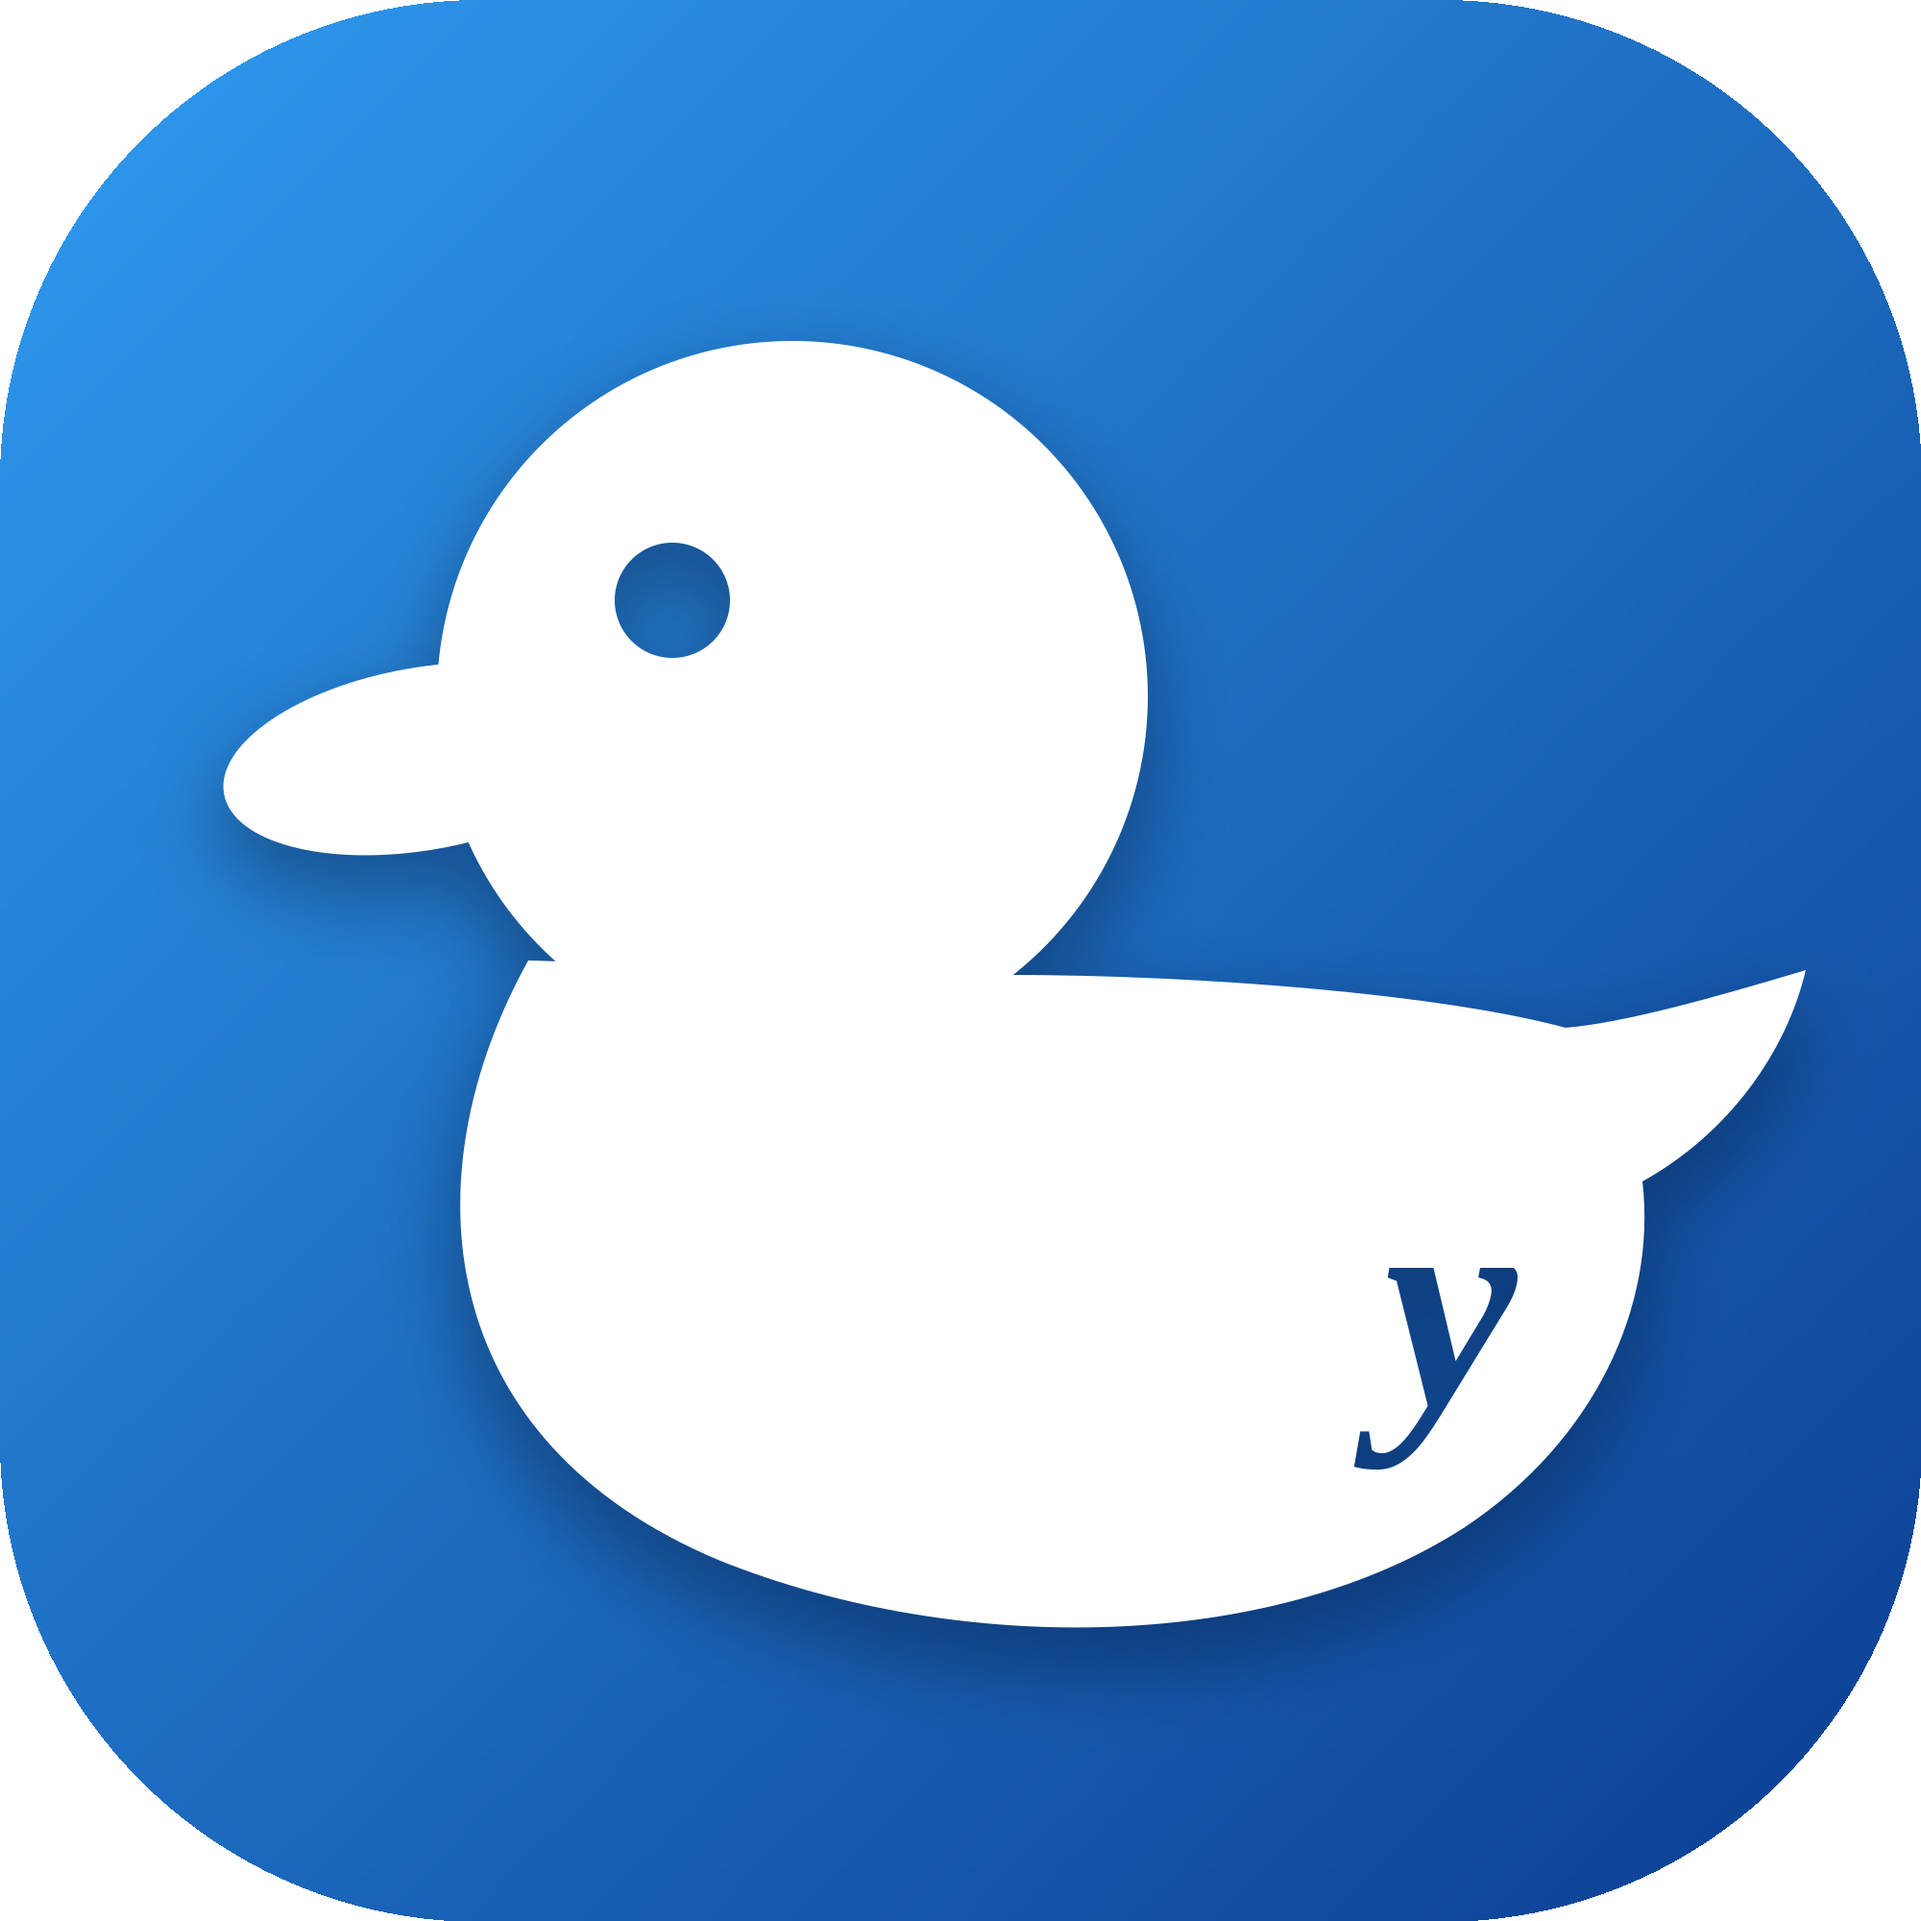
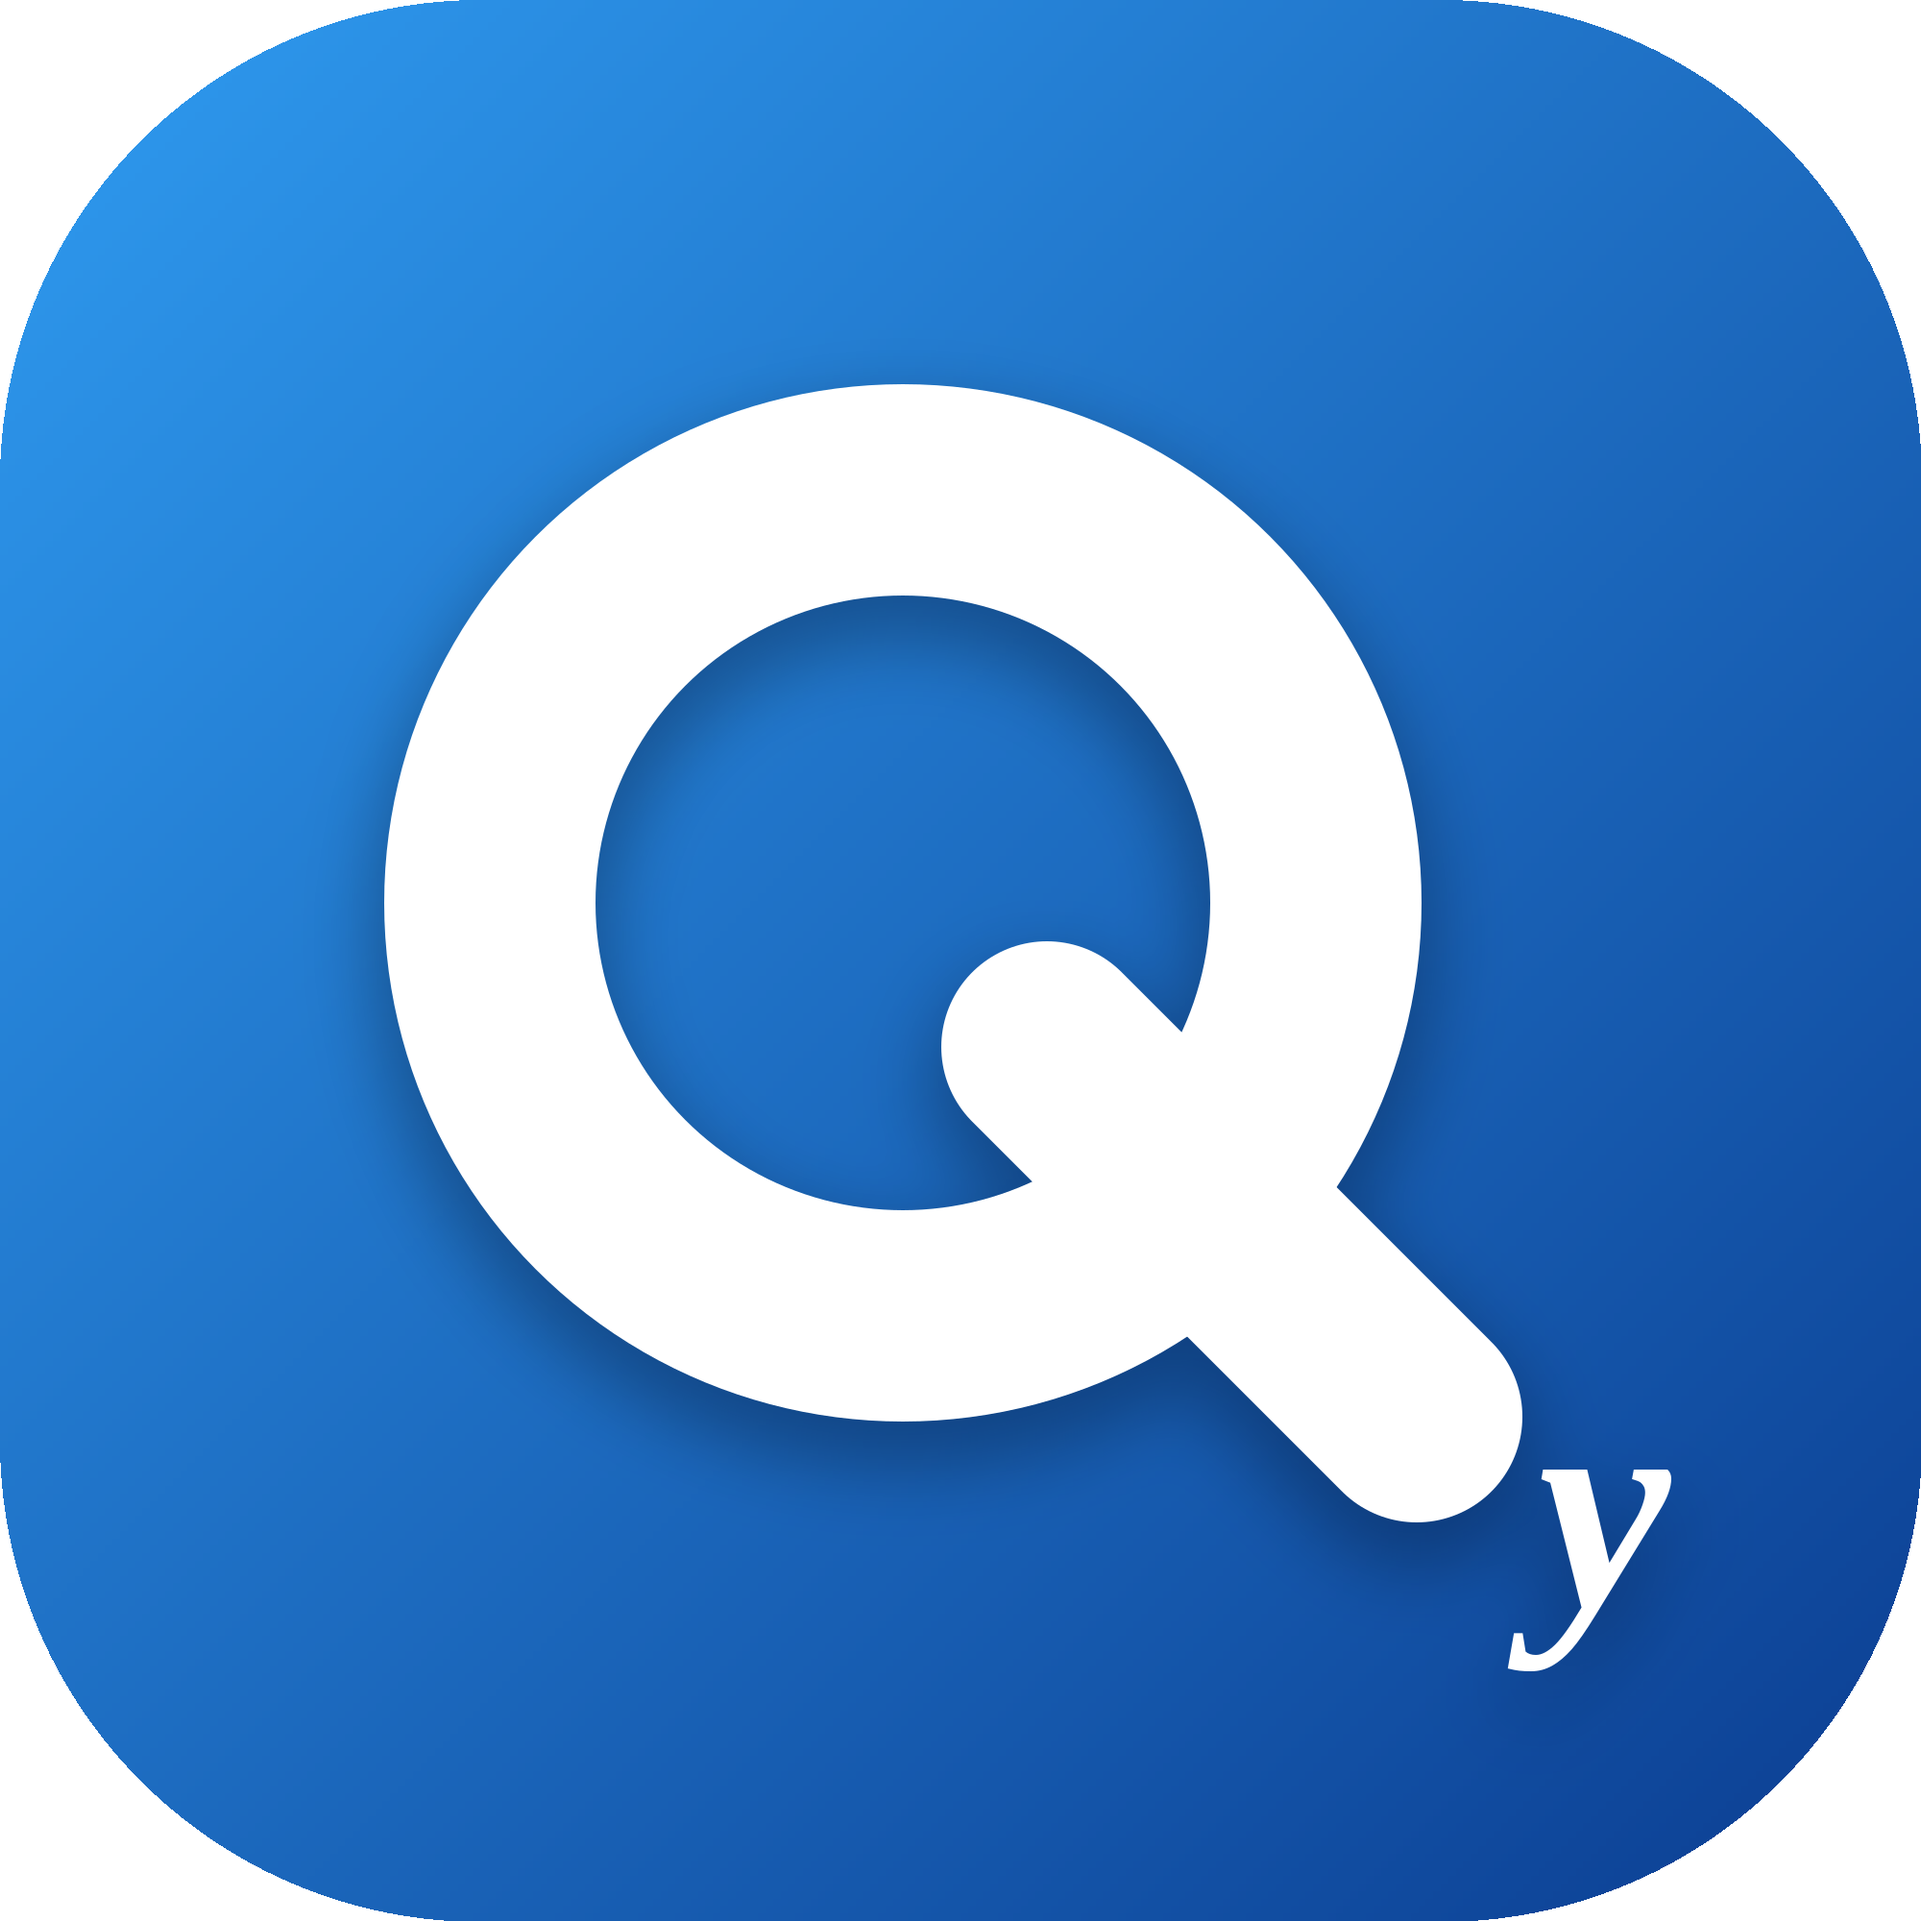
Replace the duck with a geometric Q monogram
The mark is now a bold white ring with a rounded diagonal tail
crossing the rim at 45 degrees — a modern abstract Q, drawn from
scratch rather than derived from the upstream glyph. The serif y
signature follows the tail's diagonal into the corner. Regenerated
the committed PNG assets.

Claude-Session: https://claude.ai/code/session_01T3rrsY6UjVTEf1PAQ8Tbhh

Changed region(s): [[0.093, 0.155, 0.961, 0.868]]

diff --git a/README.md b/README.md
@@ -87,8 +87,8 @@ This fork is based on upstream **v4.12.0**. Everything below is on top of that.
 
 ### Theming & identity
 
-- **New app icon** — a white duck (a nod to the Quacker lineage) on a blue gradient with a soft
-  drop shadow, carrying a small stencilled serif *y* signature on its flank.
+- **New app icon** — a bold geometric Q monogram on a blue gradient with a soft drop shadow,
+  with a small serif *y* signature in the corner.
 - **Two theme presets** — *Fairy Forest* and *Pitch Black* (see below).
 
 ### Build & release
